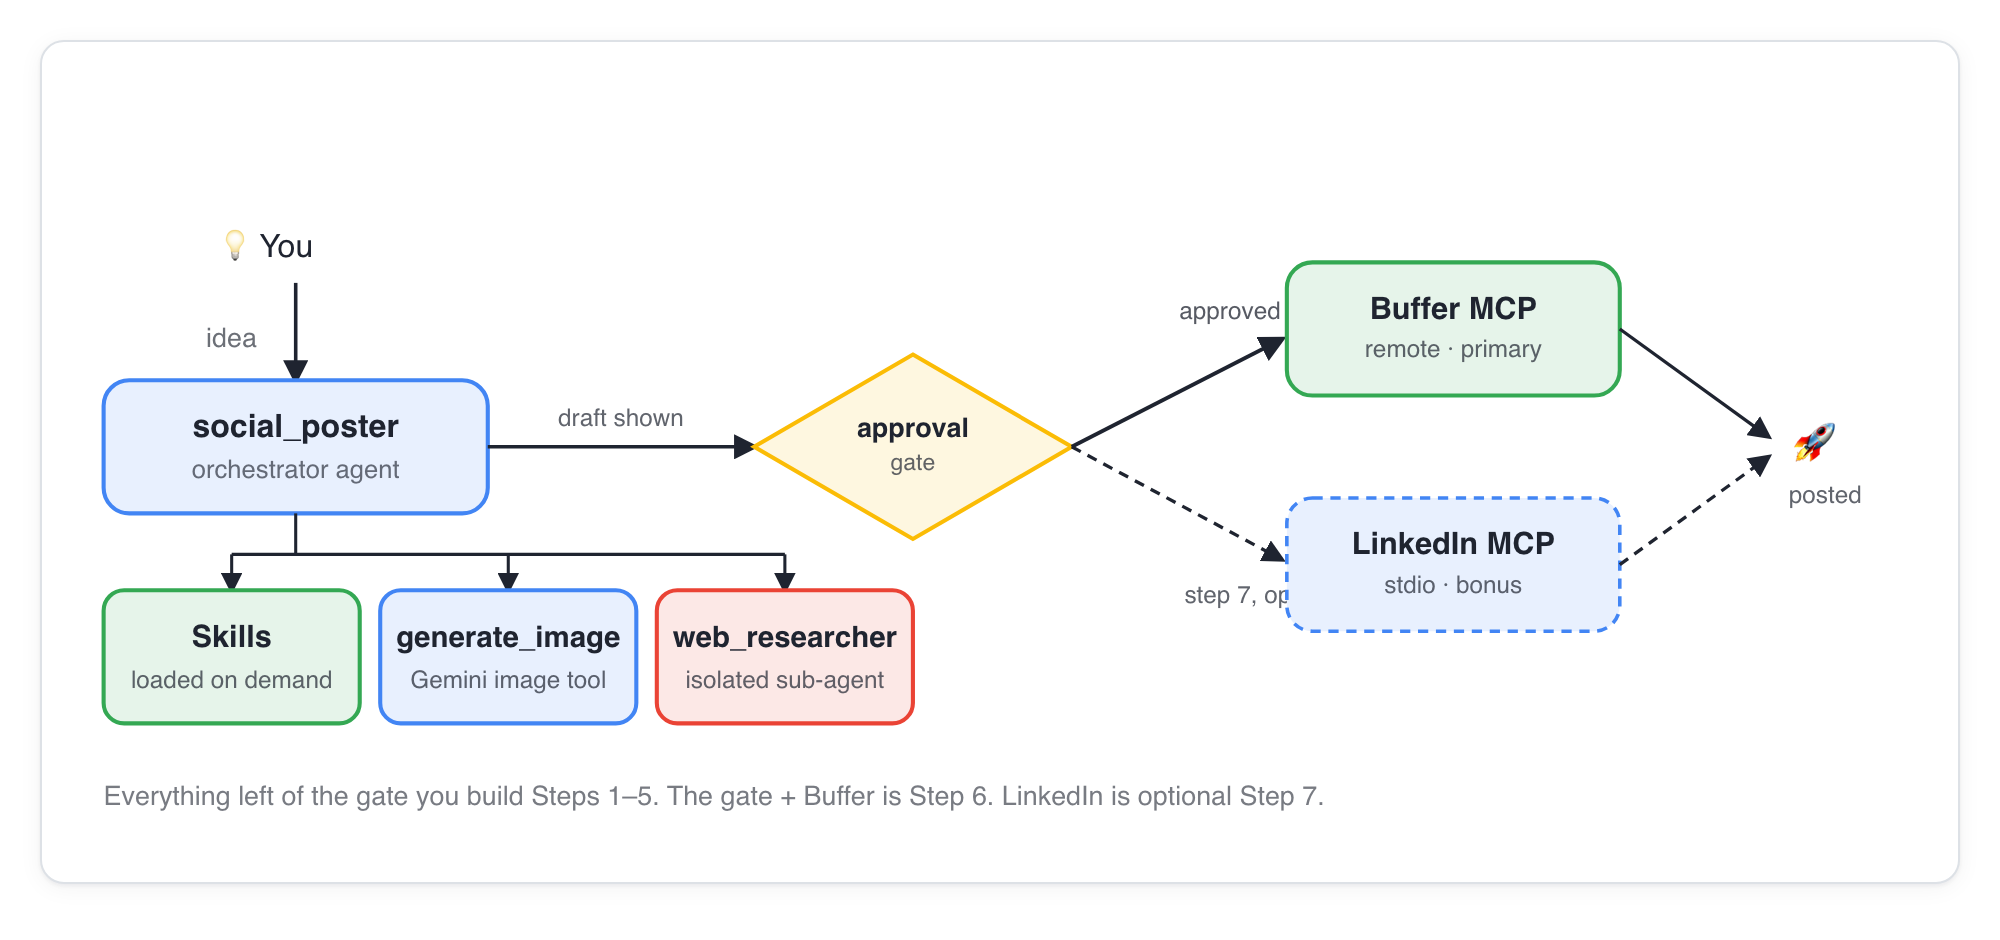
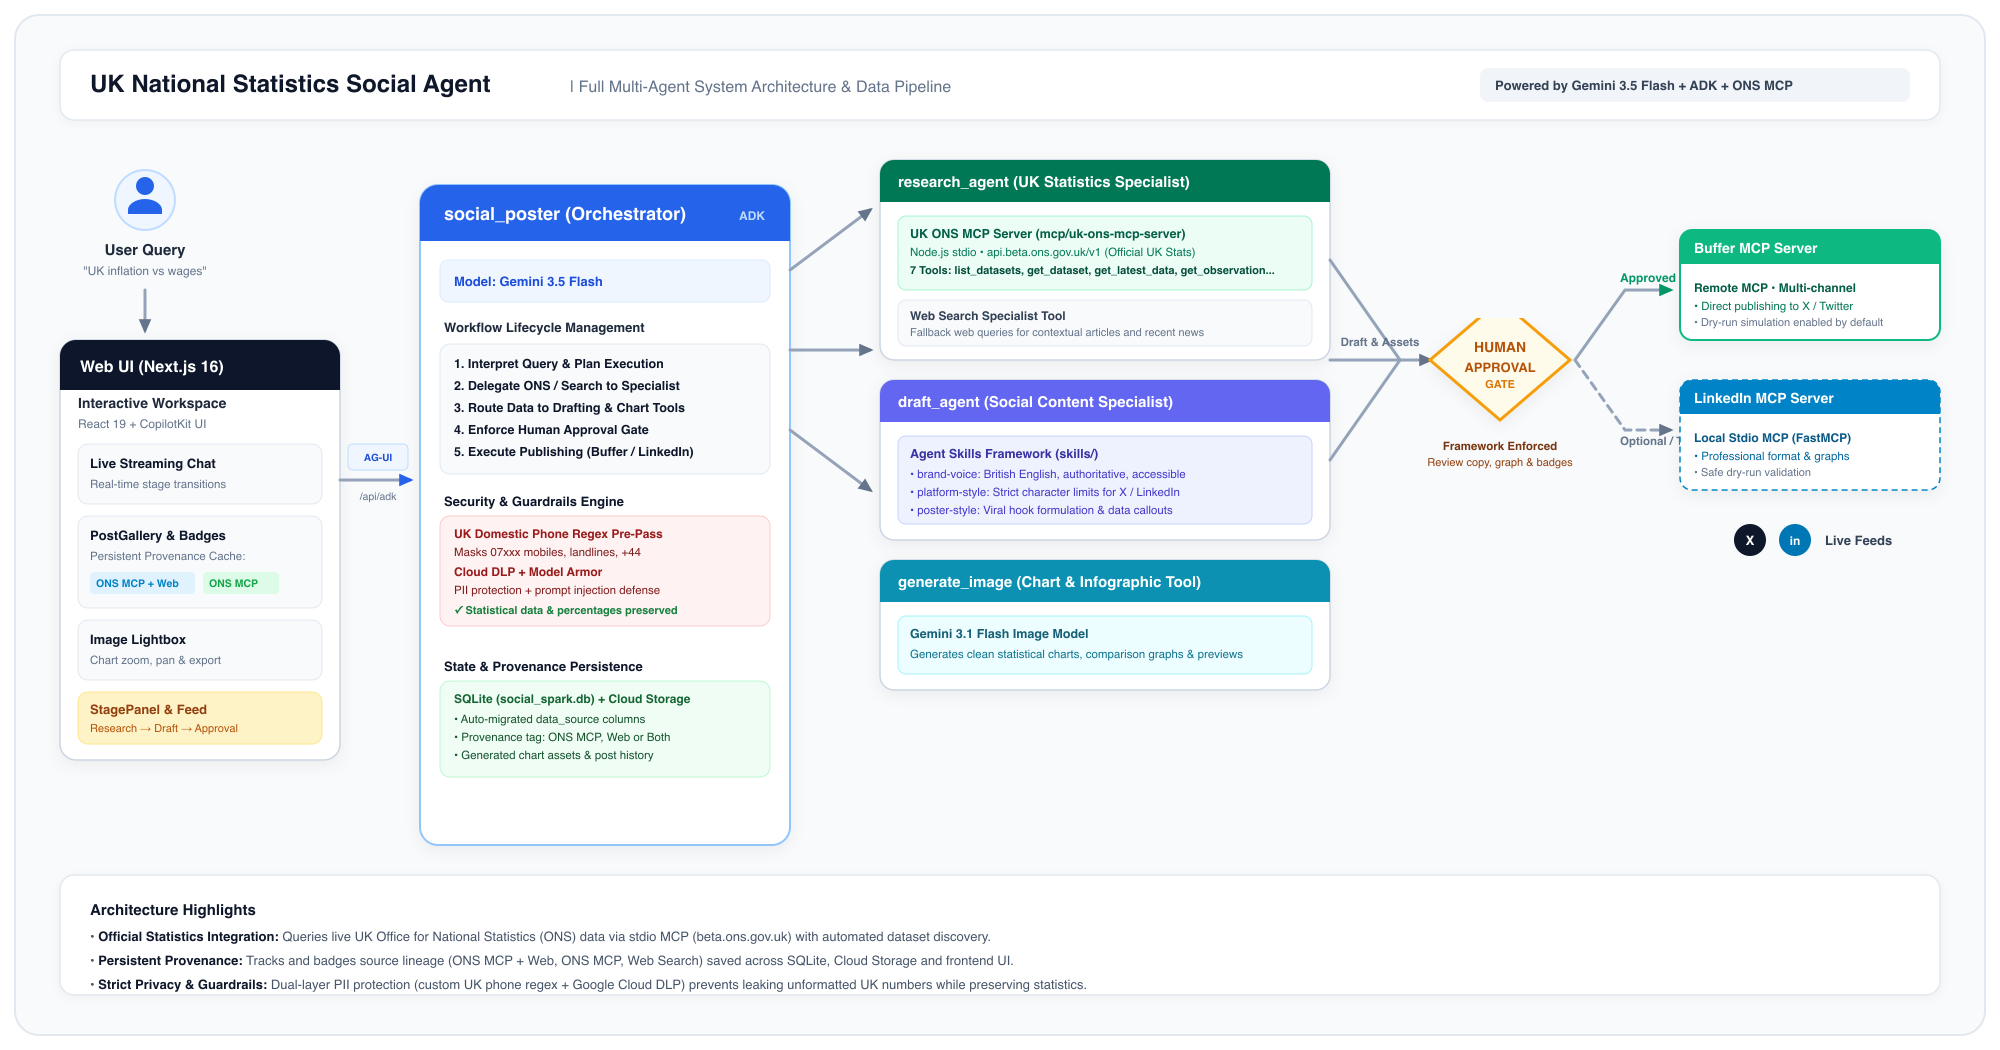
docs: update architecture diagram and remove lab workshop references from README

diff --git a/README.md b/README.md
@@ -2,87 +2,150 @@
 
 An AI multi-agent application that answers questions about UK statistics using the official **UK Office for National Statistics (ONS) MCP server**, drafts a post for **X / Twitter** (or LinkedIn) in your brand voice, generates an **easy-to-read statistical graph or chart**, **waits for your approval**, and then publishes through X/Buffer or the local Social MCP server.
 
-> **Start here:** [Setup guide](docs/setup-guide.html) (do this before Saturday) → [Lab 1: Build](docs/lab-1-build.html). All docs are listed in [docs/index.html](docs/index.html).
->
-> This repo combines the UK ONS MCP server (`mcp/uk-ons-mcp-server`) with the ADK multi-agent social publishing architecture.
+> Combines the official UK Office for National Statistics (ONS) MCP server (`mcp/uk-ons-mcp-server`) with Google ADK multi-agent orchestration, custom UK phone privacy guardrails, persistent provenance tracking, and an interactive human approval gate.
 
-## How it works
+---
 
-<img src="docs/img/architecture-build.png" alt="The social_poster orchestrator takes your UK statistics question, queries the ONS MCP server via research_agent, drafts an X post and statistical graph via draft_agent, and only publishes after you approve" width="800">
+## How It Works
 
-You ask the **orchestrator** (`social_poster`) a question about UK statistics (such as inflation/CPIH, regional GDP, personal wellbeing, card spending, trade, or population). It delegates to the **UK ONS research specialist** (`research_agent`), which queries live datasets from `https://api.beta.ons.gov.uk/v1` over stdio via the **UK ONS MCP server** (`list_datasets`, `search_datasets`, `get_dataset`, `get_dataset_dimensions`, `get_dimension_options`, `get_observation`, `get_latest_data`). It then routes the statistical data to the **drafting specialist** (`draft_agent`), which loads **Agent Skills** for X/Twitter formatting and statistical graph styling, generates a clean visual chart/graph via `generate_image`, and presents the answer, draft, and graph for your approval before publishing.
+<img src="docs/img/architecture-build.png" alt="UK Stat Agent Multi-Agent Architecture and Data Pipeline" width="1000">
 
-## Tech stack
+1. **User Request**: You ask the orchestrator a question about UK statistics (such as inflation/CPIH, regional GDP, youth unemployment, personal wellbeing, card spending, trade, or population demographics).
+2. **Specialist Research (`research_agent`)**: Queries official UK datasets from `https://api.beta.ons.gov.uk/v1` over stdio via the **UK ONS MCP Server** (`list_datasets`, `search_datasets`, `get_dataset`, `get_dataset_dimensions`, `get_dimension_options`, `get_observation`, `get_latest_data`) with Google Search fallback for current news context.
+3. **Brand-Aligned Drafting (`draft_agent`)**: Formats statistical copy using **Agent Skills** (`brand-voice`, `platform-style`, `poster-style`) adhering to British English conventions and platform character constraints.
+4. **Infographic Generation (`generate_image`)**: Generates an accessible, branded statistical chart or graph using Gemini Image models.
+5. **Privacy & Guardrails**: Text passes through a **UK Domestic Phone Regex pre-pass** (`07xxx`, landlines, `+44`) and Google Cloud DLP / Model Armor, protecting user PII while preserving statistical figures, dates, and percentages.
+6. **Data Provenance**: Every generated post is tagged with its lineage (`🔗 ONS MCP + Web`, `🏛 ONS MCP`, or `🌐 Web Search`), persisted in SQLite and Cloud Storage, and cached across chat resets.
+7. **Human Approval Gate**: Presents the draft, statistical graph, and source badges in the UI. The post is only sent to publishing channels (Buffer or LinkedIn) after you explicitly click **Approve**.
 
-| Layer | What we use | Why |
+---
+
+## Tech Stack
+
+| Layer | Technology | Role |
 |---|---|---|
-| Agent framework | [Google ADK](https://google.github.io/adk-docs/) (Python) | Multi-agent orchestrator, specialist sub-agents, tools, sessions, evals |
-| UK Statistics MCP | UK ONS MCP Server (`mcp/uk-ons-mcp-server`, Node.js stdio) | 7 read-only tools querying live UK Office for National Statistics datasets |
-| Models | Gemini (`gemini-2.5-flash`, `gemini-3.1-flash-image`) | Statistical reasoning, X/Twitter drafting, graph & chart image generation |
-| Agent knowledge | Agent Skills (`skills/`) | X/LinkedIn rules, statistical graph style, and British-English brand voice |
-| Publishing | MCP servers: Buffer (remote X/Twitter & multi-channel), Social/LinkedIn (local stdio) | Real or dry-run posts behind a framework-enforced human approval gate |
-| Agent-to-agent | A2A (`memory_agent`, optional) | A separate memory service the orchestrator can ask |
-| Backend | FastAPI + [`ag-ui-adk`](https://github.com/ag-ui-protocol/ag-ui) | Serves the agent to the UI over AG-UI at `/api/adk` |
-| Frontend | Next.js 16, React 19, [CopilotKit](https://copilotkit.ai) | Chat, draft preview and the approve button |
-| Data | SQLite (local), Cloud Storage (optional images) | Post history and hosted images |
-| Cloud | Google Cloud: Agent Runtime, Cloud Run, Cloud Build, Secret Manager | Lab 2 deploy and CI/CD |
-| Governance | Model Armor, Cloud DLP, Agent Gateway, Agent Registry | Lab 3 |
-| Tooling | `uv`, `agents-cli`, `adk eval`, `gcloud` | Install, deploy, quality gate |
+| **Agent Framework** | [Google ADK](https://google.github.io/adk-docs/) (Python) | Multi-agent orchestrator, sub-agents, tool routing, sessions, evals |
+| **UK Statistics MCP** | UK ONS MCP Server (`mcp/uk-ons-mcp-server`) | 7 tools querying live UK Office for National Statistics datasets via Node.js stdio |
+| **Foundation Models** | Gemini (`gemini-3.5-flash`, `gemini-3.1-flash-image`) | Statistical reasoning, copy drafting, chart/graph image synthesis |
+| **Agent Knowledge** | Agent Skills (`skills/`) | British English voice, platform character limits (X / LinkedIn), data hooks |
+| **Publishing** | Buffer MCP (Remote) & LinkedIn MCP (Local stdio FastMCP) | Multi-channel social publishing behind a human approval gate |
+| **Backend** | FastAPI + [`ag-ui-adk`](https://github.com/ag-ui-protocol/ag-ui) | Serves the agent over the AG-UI protocol at `/api/adk` |
+| **Frontend** | Next.js 16, React 19, [CopilotKit](https://copilotkit.ai) | Streaming chat, StagePanel progress, PostGallery with provenance chips, ImageLightbox |
+| **Database & Storage** | SQLite (`social_spark.db`) + Google Cloud Storage | Post persistence, schema auto-migration, hosted image charts |
+| **Security & Safety** | UK Phone Regex pre-pass, Cloud DLP, Model Armor | Domestic mobile/landline redaction, prompt injection defense |
+| **Tooling** | `uv`, Node.js, `agents-cli`, `pytest` | Dependency management, evaluation, automated testing |
 
-## What you build, lab by lab
+---
 
-| Session | Lab | You add | Tag to check out if you fall behind |
-|---|---|---|---|
-| Setup | [Setup guide](docs/setup-guide.html) | Google Cloud project, tools, coding agent | `starter` |
-| 1. Build | [Lab 1](docs/lab-1-build.html) | The agent, skills, tools, approval gate, web UI | `pillar-build` |
-| 2. Scale | [Lab 2](docs/lab-2-scale.html) | Deploy to Agent Runtime, managed sessions and Memory Bank | `pillar-scale` |
-| 3. Govern | [Lab 3](docs/lab-3-govern.html) | Model Armor, Cloud DLP, gateway, registry, guardrail evals | `pillar-govern` |
+## Key Features
+
+- **🏛 Live UK ONS Data Integration**: Direct access to official UK Government economic and social datasets through an integrated Model Context Protocol (MCP) server.
+- **🏷 Persistent Provenance Badging**: Clear source attribution (`🔗 ONS MCP + Web`, `🏛 ONS MCP`, `🌐 Web Search`) displayed on every post and preserved in SQLite and local browser storage across chat sessions.
+- **🛡 Custom UK Domestic Phone PII Shield**: Protects UK phone numbers formatted as `07777111222`, `07xxx xxx xxx`, `(020) xxxx xxxx`, or `+44 7xxx` while preventing false-positive redaction of data percentages, years, or currency.
+- **📊 Statistical Graph Lightbox**: Click any generated chart in the gallery or chat to open an interactive modal with zoom, pan, and direct image download.
+- **🚦 Enforced Human-in-the-Loop Review**: No post is ever published automatically; you review copy, hashtags, data sources, and visual assets before confirming.
+
+---
+
+## Getting Started
+
+### Prerequisites
+
+- [uv](https://docs.astral.sh/uv/) (Python package and environment manager)
+- [Node.js](https://nodejs.org/) (v20 or higher)
+- A Google Cloud project with Vertex AI enabled (or a Gemini API key)
+
+### 1. Clone & Configure
 
 ```bash
-git checkout pillar-build   # for example: the finished result of Lab 1
+cd stat-agent
+
+# Copy sample configuration
+cp .env.example backend/social_poster/.env
 ```
 
-<img src="docs/img/architecture-scale.png" alt="Scale: the web UI calls the agent on Agent Runtime, which keeps conversation state in Sessions and long-term facts in Memory Bank" width="800">
+Open `backend/social_poster/.env` and configure your Google Cloud project and credentials:
+```bash
+GOOGLE_CLOUD_PROJECT=your-gcp-project-id
+GOOGLE_GENAI_USE_VERTEXAI=true
+DRY_RUN=true
+```
 
-## Run it locally
-
-You need [uv](https://docs.astral.sh/uv/), Node.js 20+, and a Google Cloud project (see the [setup guide](docs/setup-guide.html)). From the repo root:
+### 2. Install Dependencies
 
 ```bash
-cp .env.example backend/social_poster/.env   # set GOOGLE_CLOUD_PROJECT
+# Python dependencies
 uv sync
-./run-backend.sh                             # terminal 1: http://localhost:8000
-./run-frontend.sh                            # terminal 2: http://localhost:3000
+
+# Frontend dependencies
+cd frontend && npm install && cd ..
+
+# MCP Server dependencies & build
+cd mcp/uk-ons-mcp-server && npm install && npm run build && cd ../..
 ```
 
-Publishing is a dry run (`DRY_RUN=true`) until you switch it off, so nothing goes to a real account by accident. More detail: [backend/README.md](backend/README.md) and [frontend/README.md](frontend/README.md).
+### 3. Run Locally
 
-## What's where
-
-```
-backend/social_poster/   the agents, tools and guardrails (agent.py is the place to start)
-backend/main.py          FastAPI app: AG-UI route, sessions and memory when deployed
-skills/                  Agent Skills (brand voice)
-frontend/                Next.js + CopilotKit UI
-evals/                   adk eval sets (quality and governance)
-docs/                    labs, setup guide, deploy and reference docs
-gcp-setup.sh             one-time Google Cloud setup: APIs, templates, grants
-```
-
-## Deploy and reference docs
-
-| Doc | Covers |
-|---|---|
-| [agent-runtime-deploy.md](docs/agent-runtime-deploy.md) | Deploy to Agent Runtime, sessions and memory, the frontend on Cloud Run |
-| [cloud-run-deploy.md](docs/cloud-run-deploy.md) | Optional reference (not used in the labs): Dockerfile, `cloudbuild.yaml`, IAM, eval-gated CI/CD |
-| [model-armor-setup.md](docs/model-armor-setup.md) | Guardrail templates, grants and switches |
-| [observability.md](docs/observability.md) | Cloud Trace and the BigQuery analytics agent |
-| [LEARNINGS.md](docs/LEARNINGS.md) | What broke and why, by pillar |
-
-**What's deployed right now?** An Agent Runtime engine scales to zero when idle, and the console only shows one region at a time, so a deployed agent can look missing. Ask the CLI:
+Start the backend and frontend in separate terminals:
 
 ```bash
-agents-cli deploy --list --project YOUR_PROJECT --no-confirm-project
+# Terminal 1: Backend API (http://localhost:8000)
+./run-backend.sh
+
+# Terminal 2: Frontend Web UI (http://localhost:3000)
+./run-frontend.sh
 ```
 
-Target and region come from `agents-cli-manifest.yaml` at the repo root.
+> [!NOTE]
+> `DRY_RUN=true` is enabled by default so no posts are sent to real social media accounts during development.
+
+---
+
+## Running Tests
+
+Run the automated test suite covering DB migrations, guardrails, and agent routing:
+
+```bash
+uv run pytest tests/
+```
+
+---
+
+## Repository Structure
+
+```
+backend/
+├── main.py                     # FastAPI application serving AG-UI protocol
+└── social_poster/              # Core agent package
+    ├── agent.py                # Multi-agent orchestrator & stage workflow
+    ├── db.py                   # SQLite storage, schema migrations & GCS sync
+    ├── guardrails.py           # UK Phone Regex pre-pass & Cloud DLP integration
+    └── tools.py                # Image generation & Buffer publishing tools
+frontend/
+├── app/page.tsx                # Next.js main workspace interface
+└── app/components/
+    ├── PostGallery.tsx         # Approved posts gallery with provenance badges
+    ├── StagePanel.tsx          # Real-time workflow progress tracker
+    └── ImageLightbox.tsx       # Chart viewer with zoom, pan and download
+mcp/
+├── uk-ons-mcp-server/          # Official UK ONS MCP Server (Node.js stdio)
+└── linkedin_server.py          # FastMCP LinkedIn publishing server
+skills/
+├── brand-voice/SKILL.md        # British English tone and style guidelines
+├── platform-style/SKILL.md     # Platform-specific formatting rules (X, LinkedIn)
+└── poster-style/SKILL.md       # High-engagement hook and data formatting rules
+docs/                           # Architecture guides and reference documentation
+tests/                          # Pytest test suite (DB, guardrails, tools)
+```
+
+---
+
+## Deployment & Production References
+
+| Document | Description |
+|---|---|
+| [agent-runtime-deploy.md](docs/agent-runtime-deploy.md) | Deploying backend to Agent Runtime with managed sessions and Cloud Run frontend |
+| [cloud-run-deploy.md](docs/cloud-run-deploy.md) | Containerised deployment via Dockerfile, `cloudbuild.yaml`, IAM, and CI/CD |
+| [model-armor-setup.md](docs/model-armor-setup.md) | Setting up Model Armor safety templates and prompt injection defense |
+| [observability.md](docs/observability.md) | Tracing via Cloud Trace and BigQuery Agent Analytics |
+| [LEARNINGS.md](docs/LEARNINGS.md) | Architectural decisions, guardrail implementation, and performance notes |
